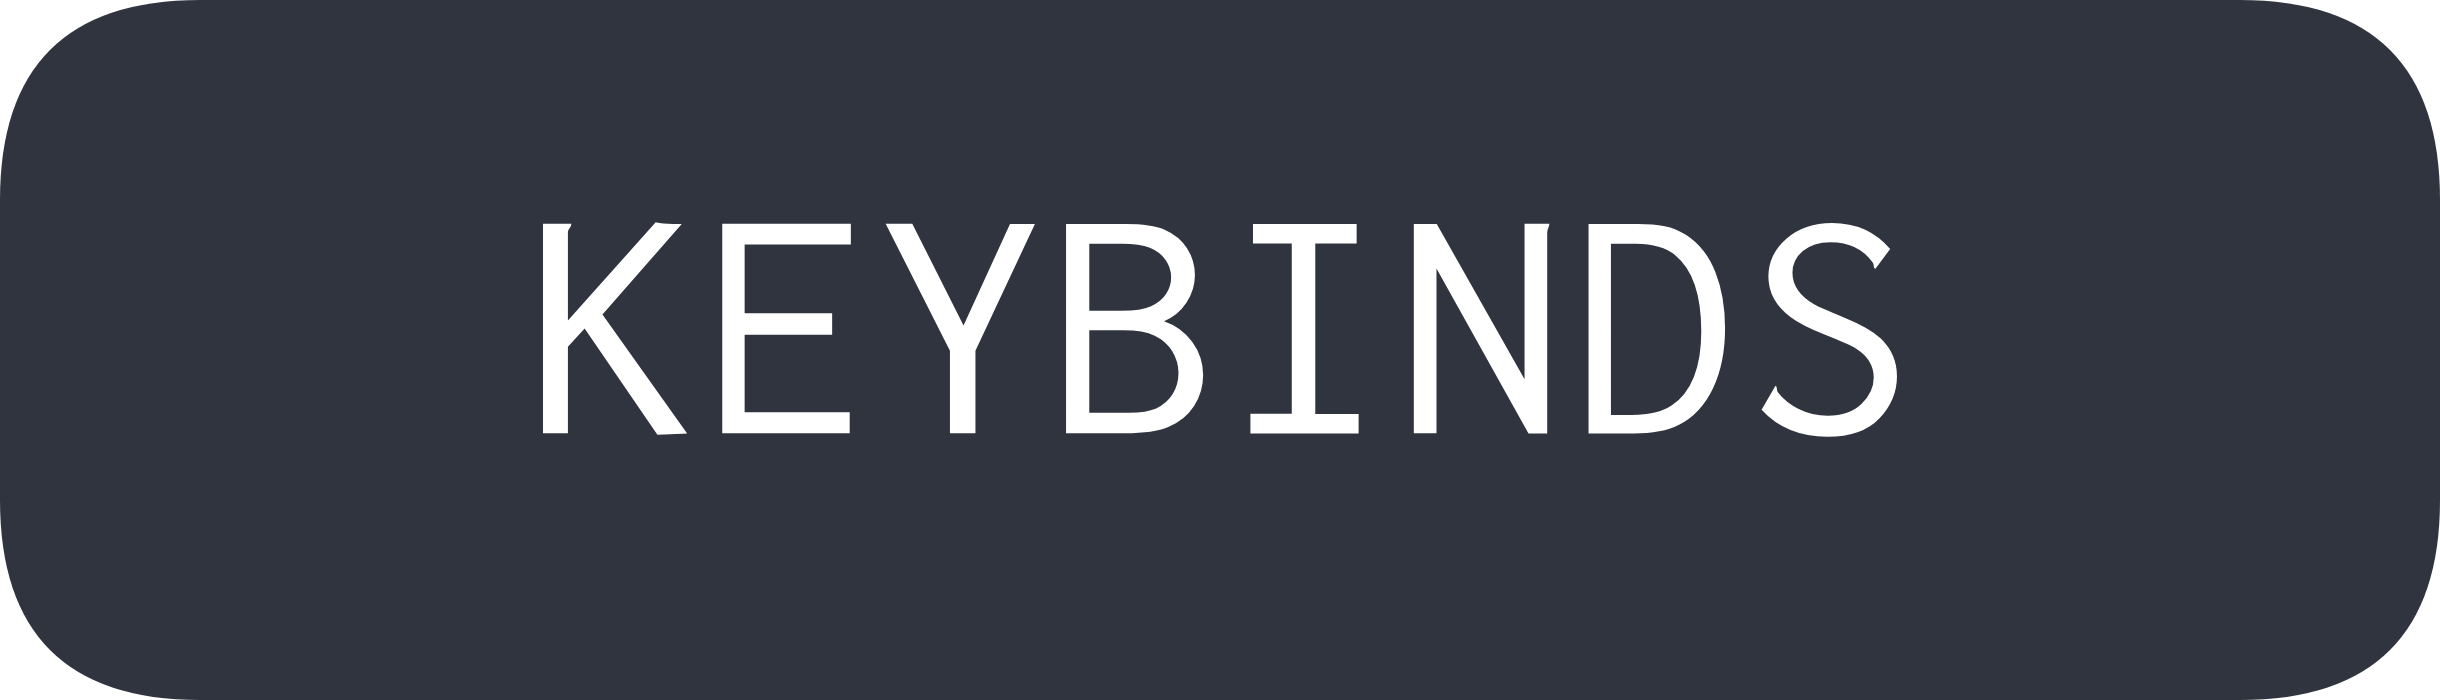
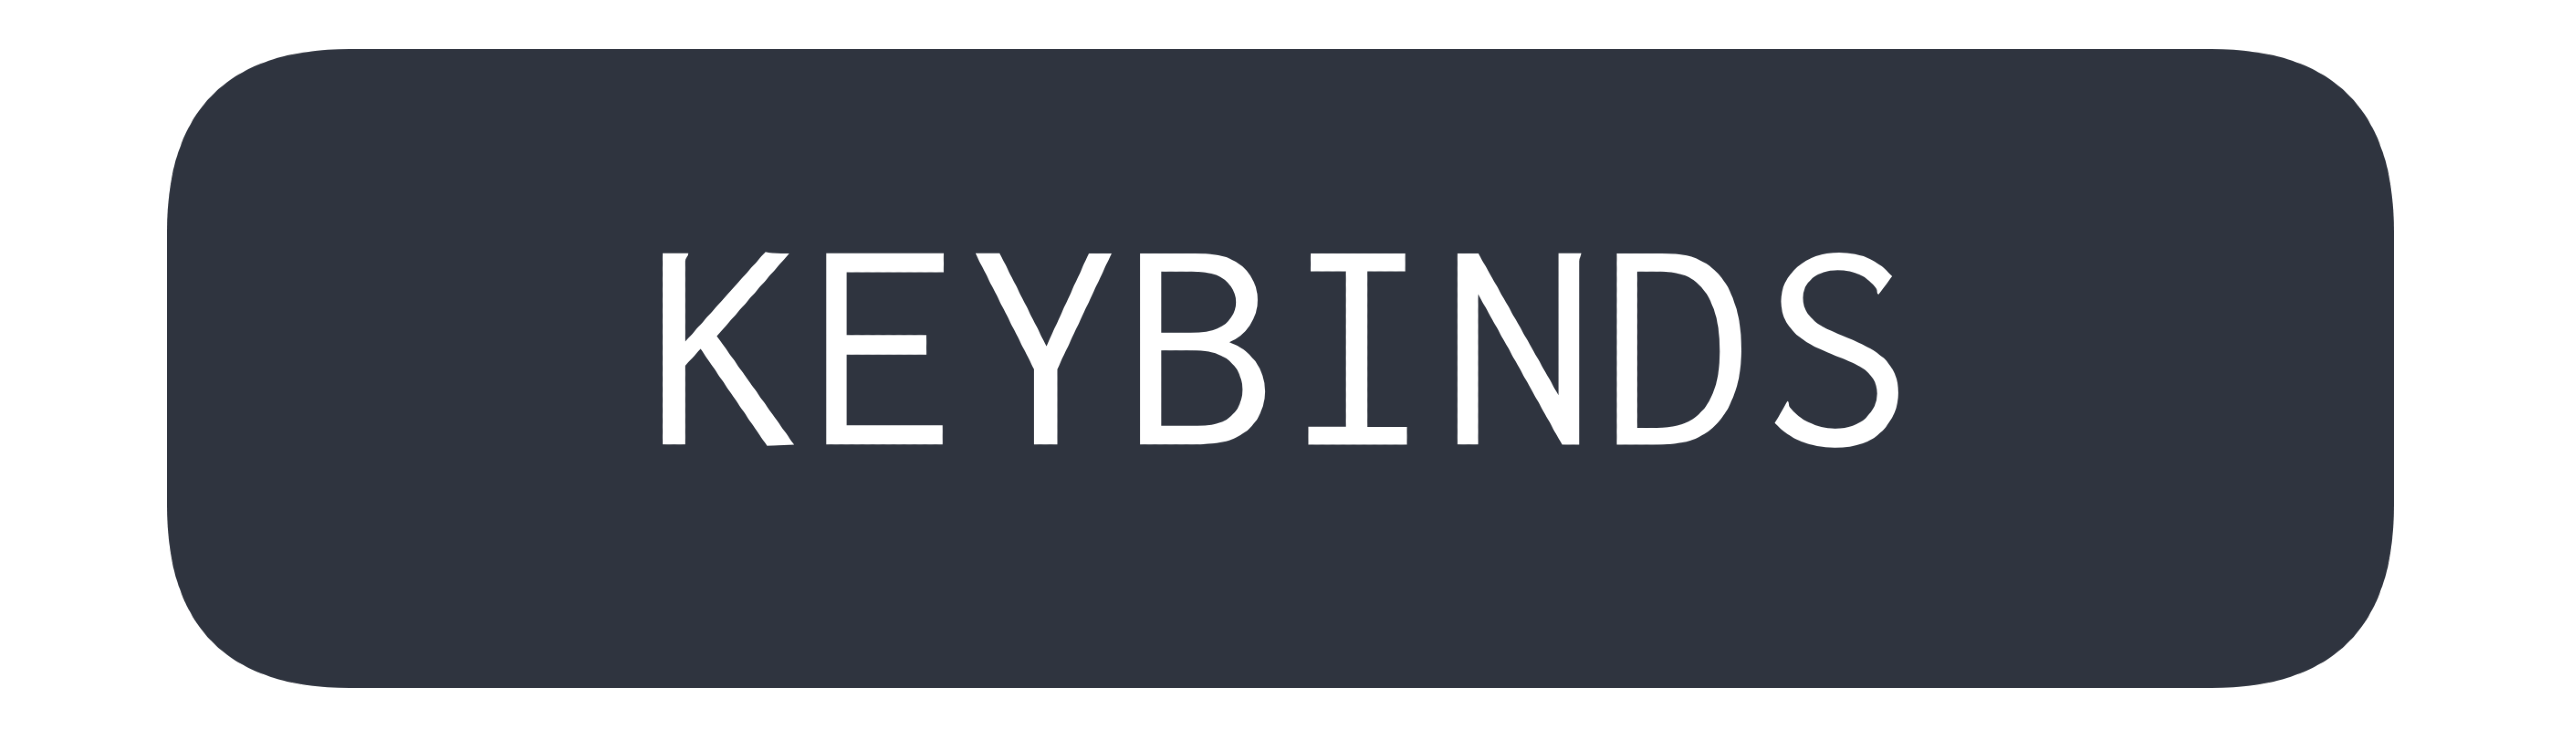
more spacing
Former-commit-id: ab82b4647f3d40f6d9e42090033b117aca3a59e1

diff --git a/README.md b/README.md
@@ -7,10 +7,10 @@
 </p>
 
 <p align="center">
-<a href="#arm64-Mac-Installation"><img width="170" style="padding: 20px 20px;" src=".assets/config.png"></a>
-<a href="#x86_64-Mac-Installation"><img width="170" style="padding: 20px 20px;" src=".assets/install.png"></a>
-<a href="#Arch-Linux-Installation"><img width="170" style="padding: 20px 20px;" src=".assets/arch.png"></a>
-<a href="#Keybinds"><img width="170" style="padding: 20px 20px;" src=".assets/keys.png"></a>
+<a href="#arm64-Mac-Installation"><img width="200" style="padding: 10px 10px;" src=".assets/config.png"></a>
+<a href="#x86_64-Mac-Installation"><img width="200" style="padding: 10px 10px;" src=".assets/install.png"></a>
+<a href="#Arch-Linux-Installation"><img width="200" style="padding: 10px 10px;" src=".assets/arch.png"></a>
+<a href="#Keybinds"><img width="200" style="padding: 10px 10px;" src=".assets/keys.png"></a>
 </p>
 
 <h2 align="center">
